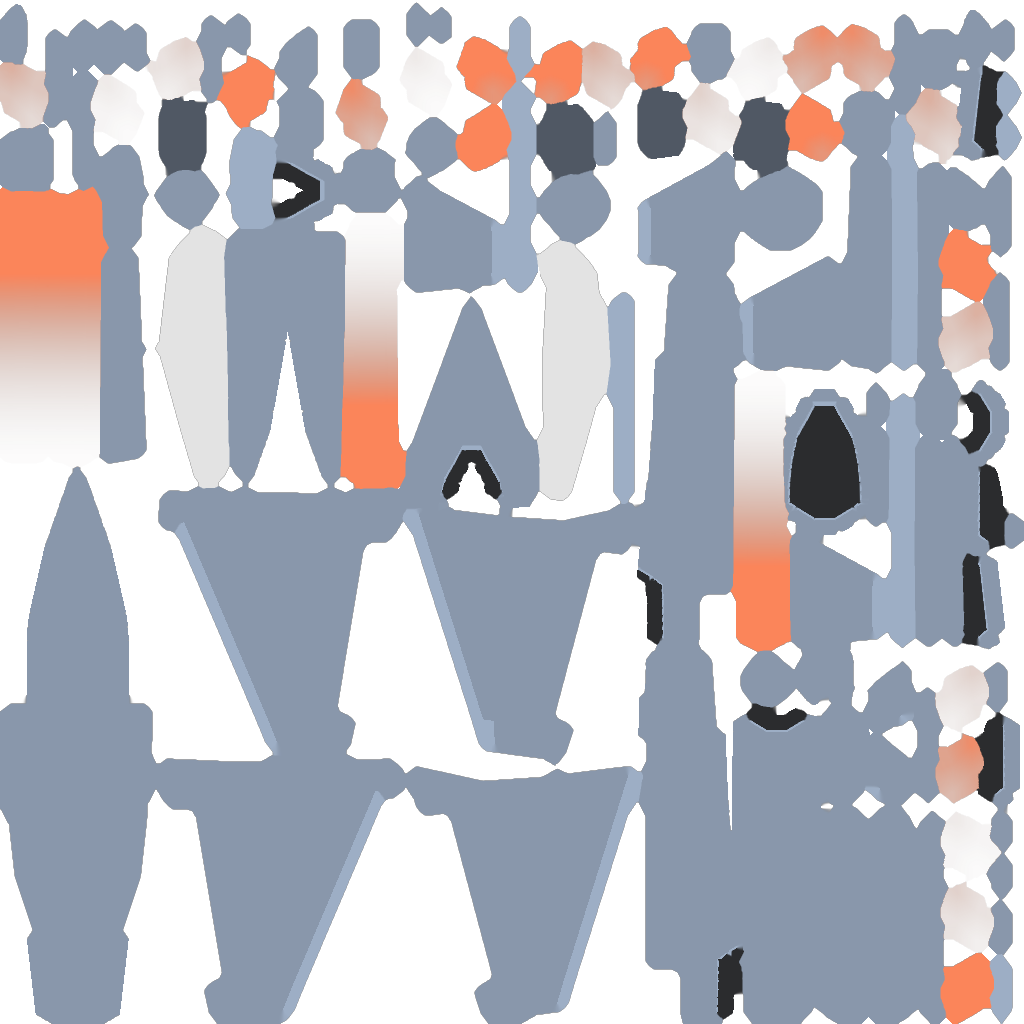
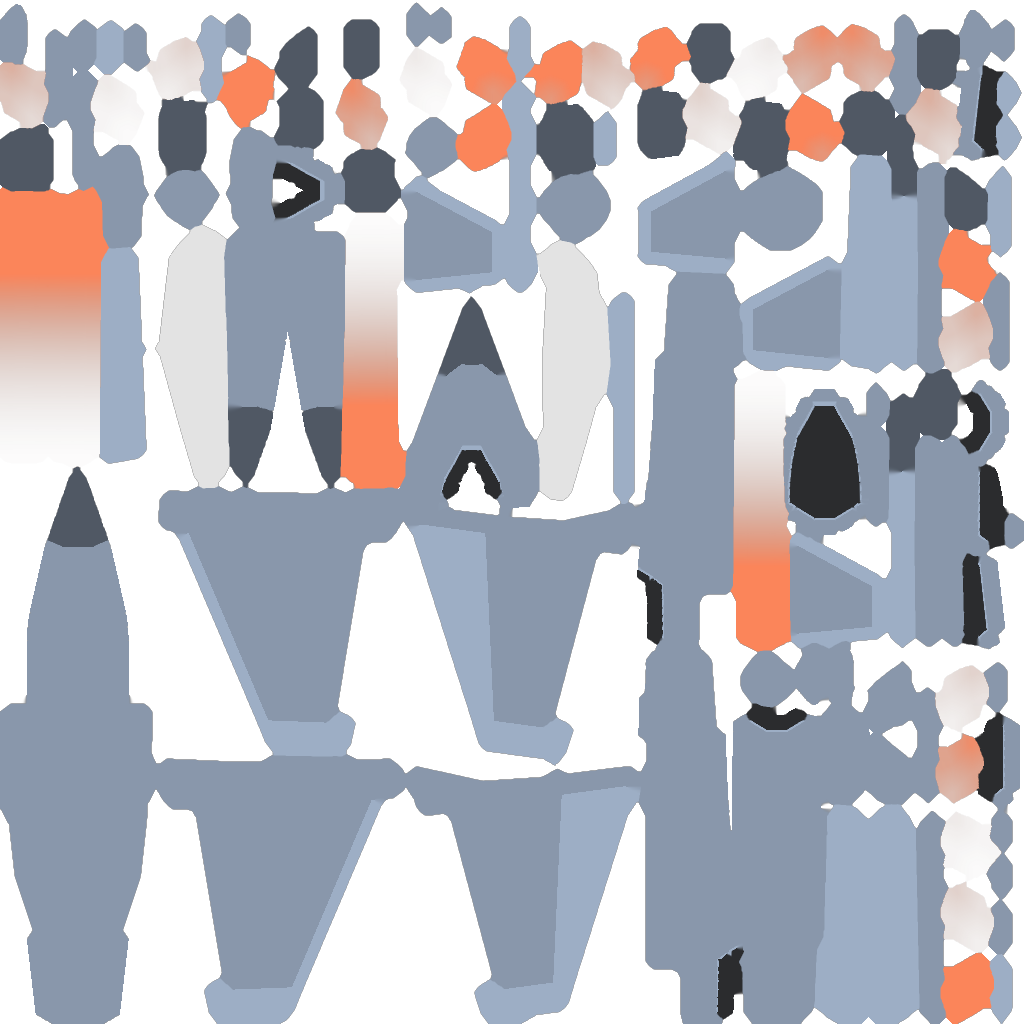
demo jet love

diff --git a/src/gameplay/aircraft.cpp b/src/gameplay/aircraft.cpp
@@ -71,6 +71,8 @@
 
 #define FONT_CHAR_WIDTH_PIXELS 0.0175f
 
+#define MISSILE_LAUNCH_COOLDOWN 1.0f
+
 using json = nlohmann::json;
 
 void CompassWidget::LoadResources() {
@@ -989,6 +991,7 @@ void Aircraft::Update() {
             FOX2_PROFILE_SCOPE("Shooting Gun")
             shotNetworkCountDown -= app->clock.deltaTime;
             shotTracerCountDown -= app->clock.deltaTime;
+            missileLaunchCoolDown -= app->clock.deltaTime;
 
             if(deployingFlares && flareCooldown <= 0.0f && numFlares > 0) {
                 app->sceneManager.currentScene->GetEntityByName<FlareSystemEntity>("flareSystem")->SpawnFlare(transform.position, transform.rotation, velocity);
@@ -1036,7 +1039,7 @@ void Aircraft::Update() {
                     shotNetworkCountDown = NETWORK_FIRE_RATE;
                 }
             }
-            else if(InputManager::IsMouseButtonJustPressed(GLFW_MOUSE_BUTTON_1) && !shotDown && weaponMode == HEAT_SEEKER && numHeatSeekers > 0) {
+            else if(InputManager::IsMouseButtonJustPressed(GLFW_MOUSE_BUTTON_1) && !shotDown && weaponMode == HEAT_SEEKER && numHeatSeekers > 0 && missileLaunchCoolDown <= 0.0f) {
                 if(lockedAircraft != nullptr && missileSeekerLockStatus == 1) {
                     app->networkManager.RequestLaunchHeatSeekingMissile(lockedAircraft->networkId);
                 }
@@ -1045,8 +1048,9 @@ void Aircraft::Update() {
                 }
 
                 numHeatSeekers--;
+                missileLaunchCoolDown = MISSILE_LAUNCH_COOLDOWN;
             }
-            else if(InputManager::IsMouseButtonJustPressed(GLFW_MOUSE_BUTTON_1) && !shotDown && weaponMode == RADAR_GUIDED && numRadarGuided > 0) {
+            else if(InputManager::IsMouseButtonJustPressed(GLFW_MOUSE_BUTTON_1) && !shotDown && weaponMode == RADAR_GUIDED && numRadarGuided > 0 && missileLaunchCoolDown <= 0.0f) {
                 if(lockedAircraft != nullptr && missileSeekerLockStatus == 1) {
                     app->networkManager.RequestLaunchRadarGuidedMissile(lockedAircraft->networkId);
                 }
@@ -1054,6 +1058,7 @@ void Aircraft::Update() {
                     app->networkManager.RequestLaunchRadarGuidedMissile(0);
                 }
                 numRadarGuided--;
+                missileLaunchCoolDown = MISSILE_LAUNCH_COOLDOWN;
             }
             else if(InputManager::IsMouseButtonJustReleased(GLFW_MOUSE_BUTTON_1) || numRounds <= 0) {
                 app->audioBackend.EndSoundAsset(app->audioBackend.globalSounds.shot);
@@ -1203,6 +1208,12 @@ void Aircraft::Explode() {
 
     app->sceneManager.currentScene->GetEntityByName<ExplosionSystemEntity>("explosionSystem")->SpawnExplosion(transform.position, EXPLODE_EXPLOSION_SIZE, 0.5f);
 
+    app->audioBackend.EndSoundAsset(app->audioBackend.globalSounds.lockAlert);
+    app->audioBackend.EndSoundAsset(app->audioBackend.globalSounds.tone);
+    app->audioBackend.EndSoundAsset(app->audioBackend.globalSounds.launch);
+    app->audioBackend.EndSoundAsset(app->audioBackend.globalSounds.shot);
+    app->audioBackend.EndSoundAsset(app->audioBackend.globalSounds.engineSound);
+
     if(networkId == app->networkManager.localClientId) {
         exploded = true;
         app->sceneManager.currentScene->RuntimeDespawn(shared_from_this());
@@ -1238,6 +1249,8 @@ void Aircraft::ShootDown() {
     app->audioBackend.EndSoundAsset(app->audioBackend.globalSounds.lockAlert);
     app->audioBackend.EndSoundAsset(app->audioBackend.globalSounds.tone);
     app->audioBackend.EndSoundAsset(app->audioBackend.globalSounds.launch);
+    app->audioBackend.EndSoundAsset(app->audioBackend.globalSounds.shot);
+    app->audioBackend.EndSoundAsset(app->audioBackend.globalSounds.engineSound);
 
     if(networkId == app->networkManager.localClientId) {
         smokeParticles.emitting = true;

diff --git a/src/gameplay/test_scene.cpp b/src/gameplay/test_scene.cpp
@@ -1,5 +1,6 @@
 #include "test_scene.hpp"
 #include "GLFW/glfw3.h"
+#include "aircraft.hpp"
 #include "scene.hpp"
 #include "scene_manager.hpp"
 #include "widget.hpp"
@@ -258,10 +259,35 @@ void SettingsWidgetLayer::CreateWidgets() {
     settingsRect->color.value = glm::vec4(0.3, 0.3, 0.3, 0.5);
     settingsRect->borderColor.value = glm::vec4(1.0, 1.0, 1.0, 0.5);
     settingsRect->z_distance = -0.5f;
+
+    std::shared_ptr<TextButtonWidget> returnToMenuButton = CreateWidget<TextButtonWidget>("returnToMenuButton", app->graphicsBackend.globalFonts.defaultFont);
+    returnToMenuButton->stretchWithAspectRatio = false;
+    returnToMenuButton->moveWithAspectRatio = true;
+    returnToMenuButton->centerText = true;
+    returnToMenuButton->SetText("Return To Menu");
+    returnToMenuButton->font.fontScale = 2.0;
+    returnToMenuButton->scale = glm::vec2(0.45, 0.09);
+    returnToMenuButton->position.y = -0.4f;
+    returnToMenuButton->color.value = glm::vec4(0.3, 0.3, 0.3, 0.5);
+    returnToMenuButton->borderColor.value = glm::vec4(1.0, 1.0, 1.0, 0.5);
+    returnToMenuButton->onPressed = [this, &app]{
+        for(std::shared_ptr<Aircraft> a : app->sceneManager.currentScene->GetEntitiesByType<Aircraft>()) {
+            if(a->networkId == app->networkManager.localClientId) {
+                a->Explode();
+            }
+        }
+    };
+    returnToMenuButton->z_distance = -0.1f;
 }
 
 void SettingsWidgetLayer::UpdateLayer() {
-    if(InputManager::IsKeyJustPressed(GLFW_KEY_LEFT_ALT)) {
+    std::unique_ptr<Application>& app = Application::GetInstance();
+
+    bool inGame = app->networkManager.networkGameState.clientStates[app->networkManager.localClientId].inGame;
+    if(InputManager::IsKeyJustPressed(GLFW_KEY_LEFT_ALT) && inGame) {
         invisible = !invisible;
+    }
+    else if (!inGame) {
+        invisible = true;
     }
 }

diff --git a/src/gameplay/aircraft.hpp b/src/gameplay/aircraft.hpp
@@ -254,6 +254,7 @@ class Aircraft : public Entity, public std::enable_shared_from_this<Aircraft> {
     Sound engineSound = Sound();
     float shotNetworkCountDown = 0.0f;
     float shotTracerCountDown = 0.0f;
+    float missileLaunchCoolDown = 0.0f;
 
     glm::vec3 ComputeTargetLeadPoint();
 
